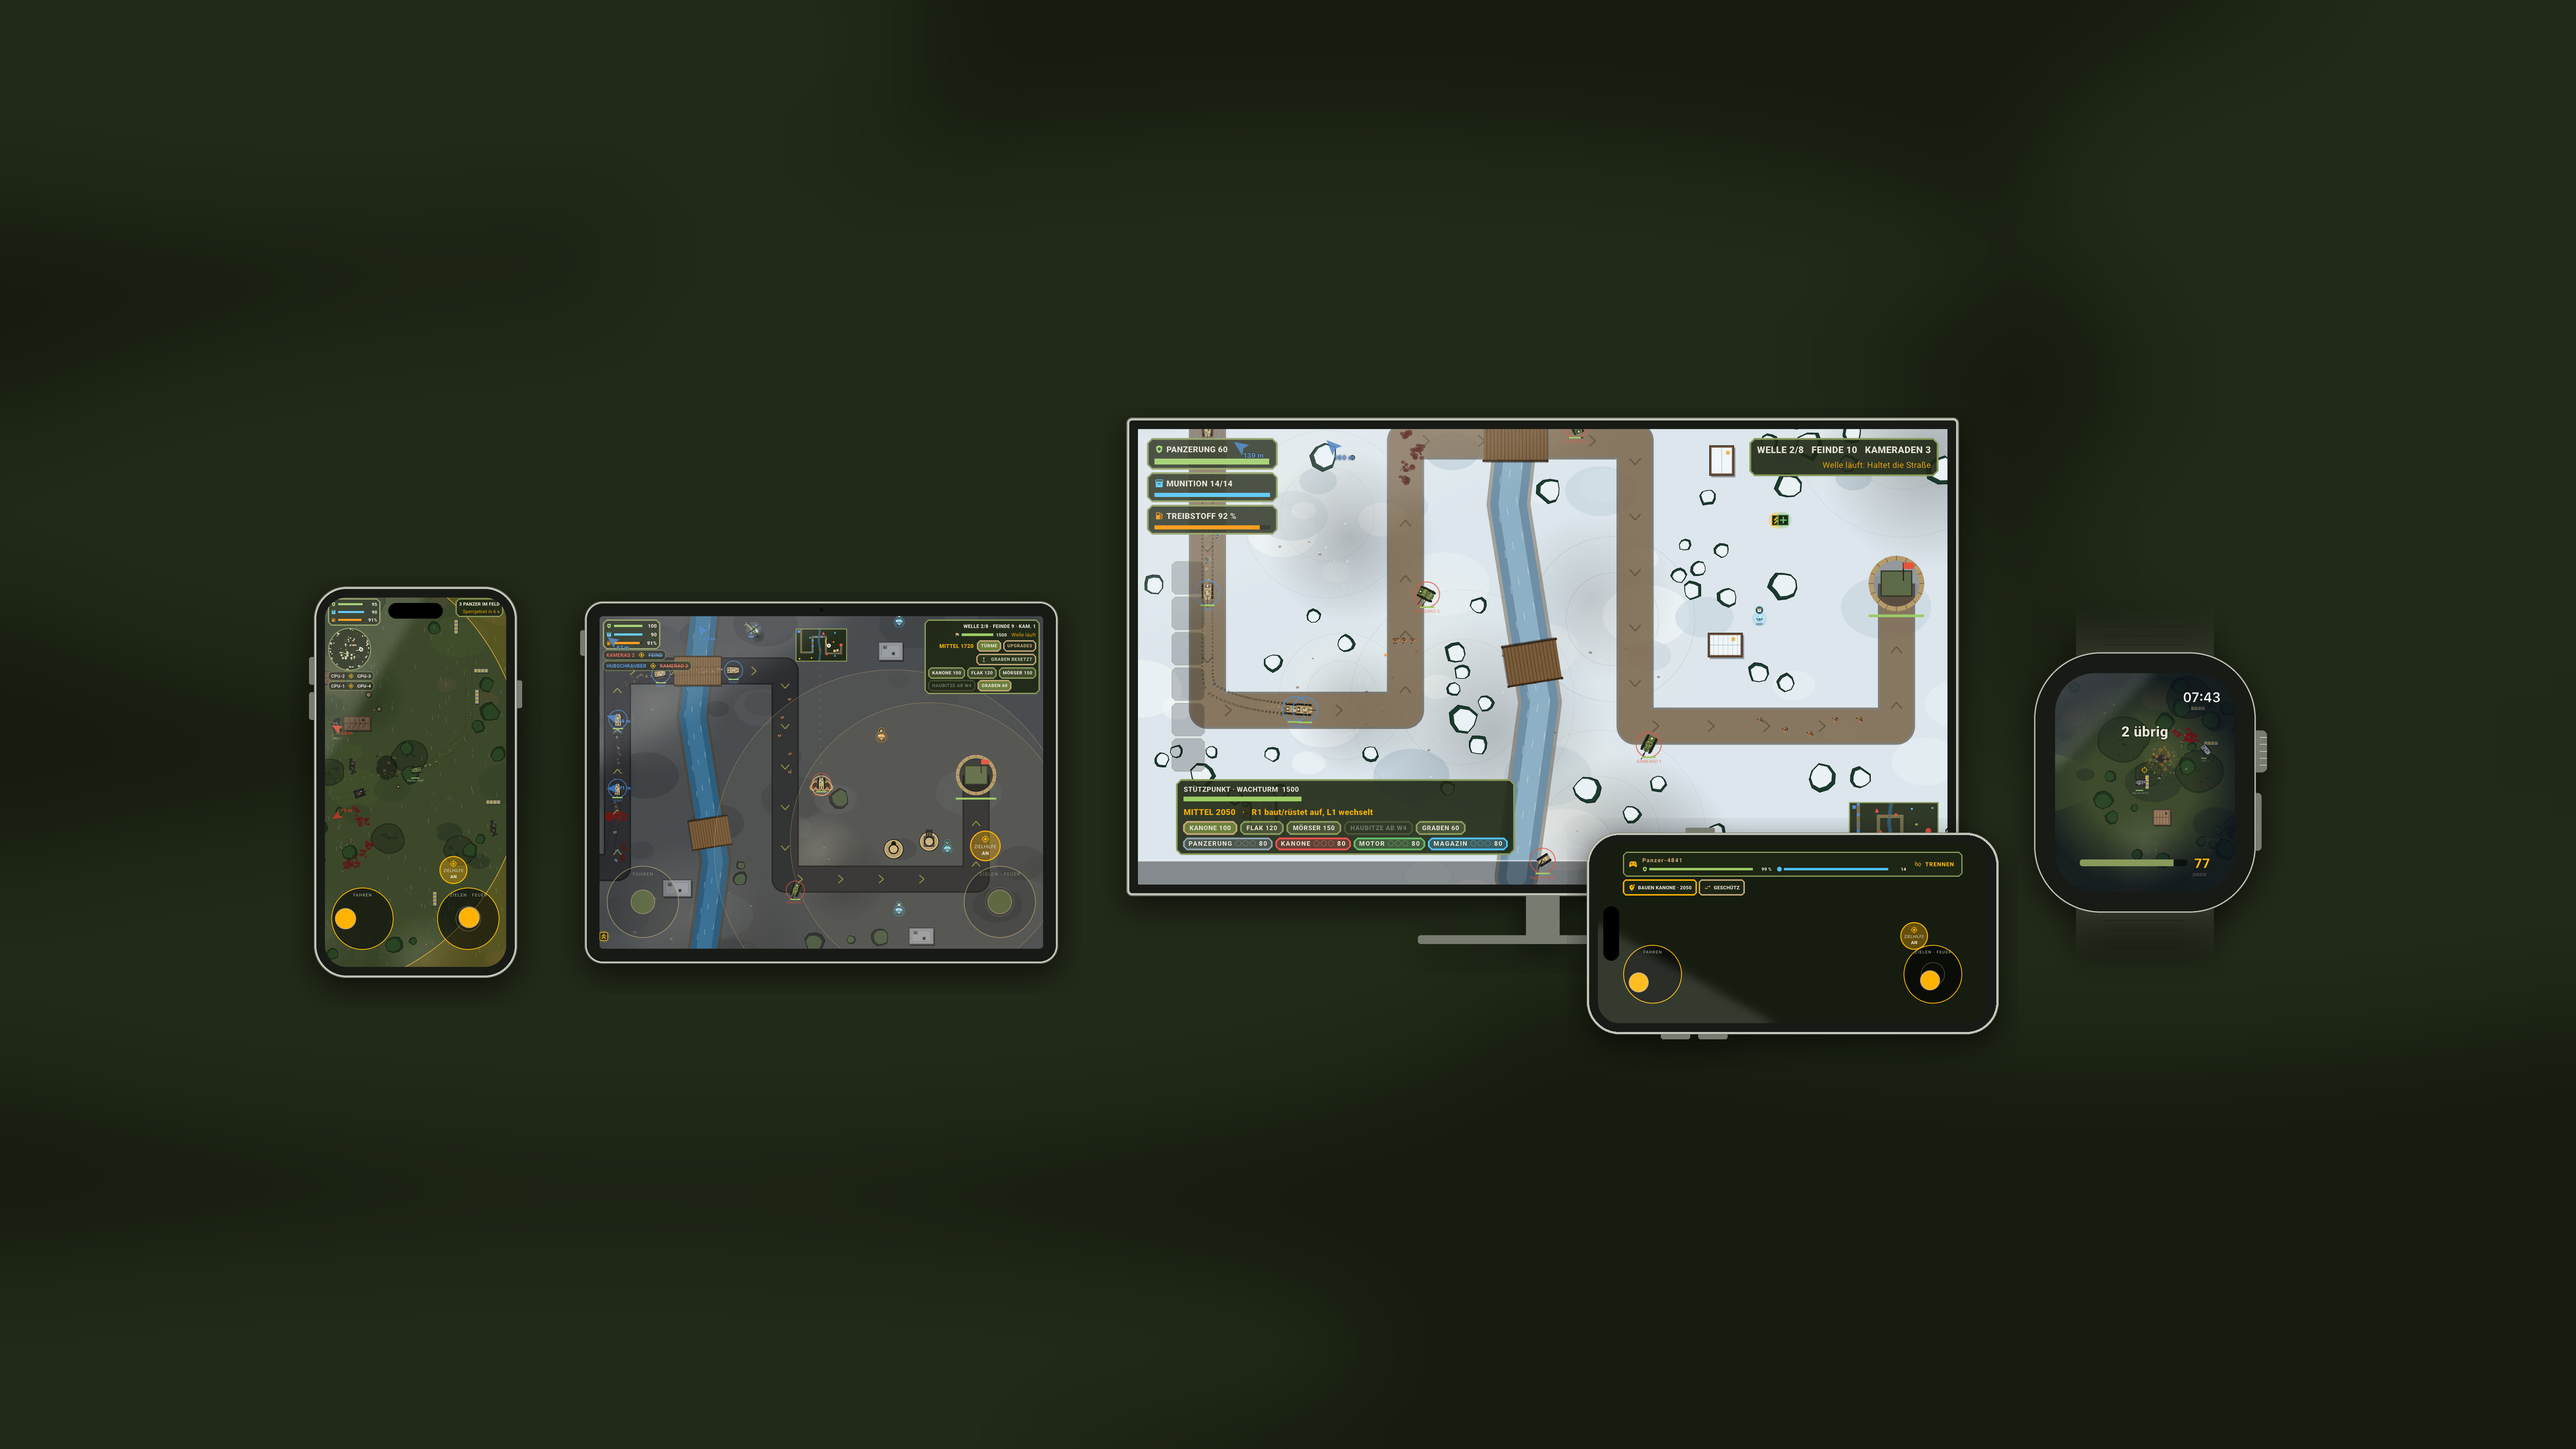
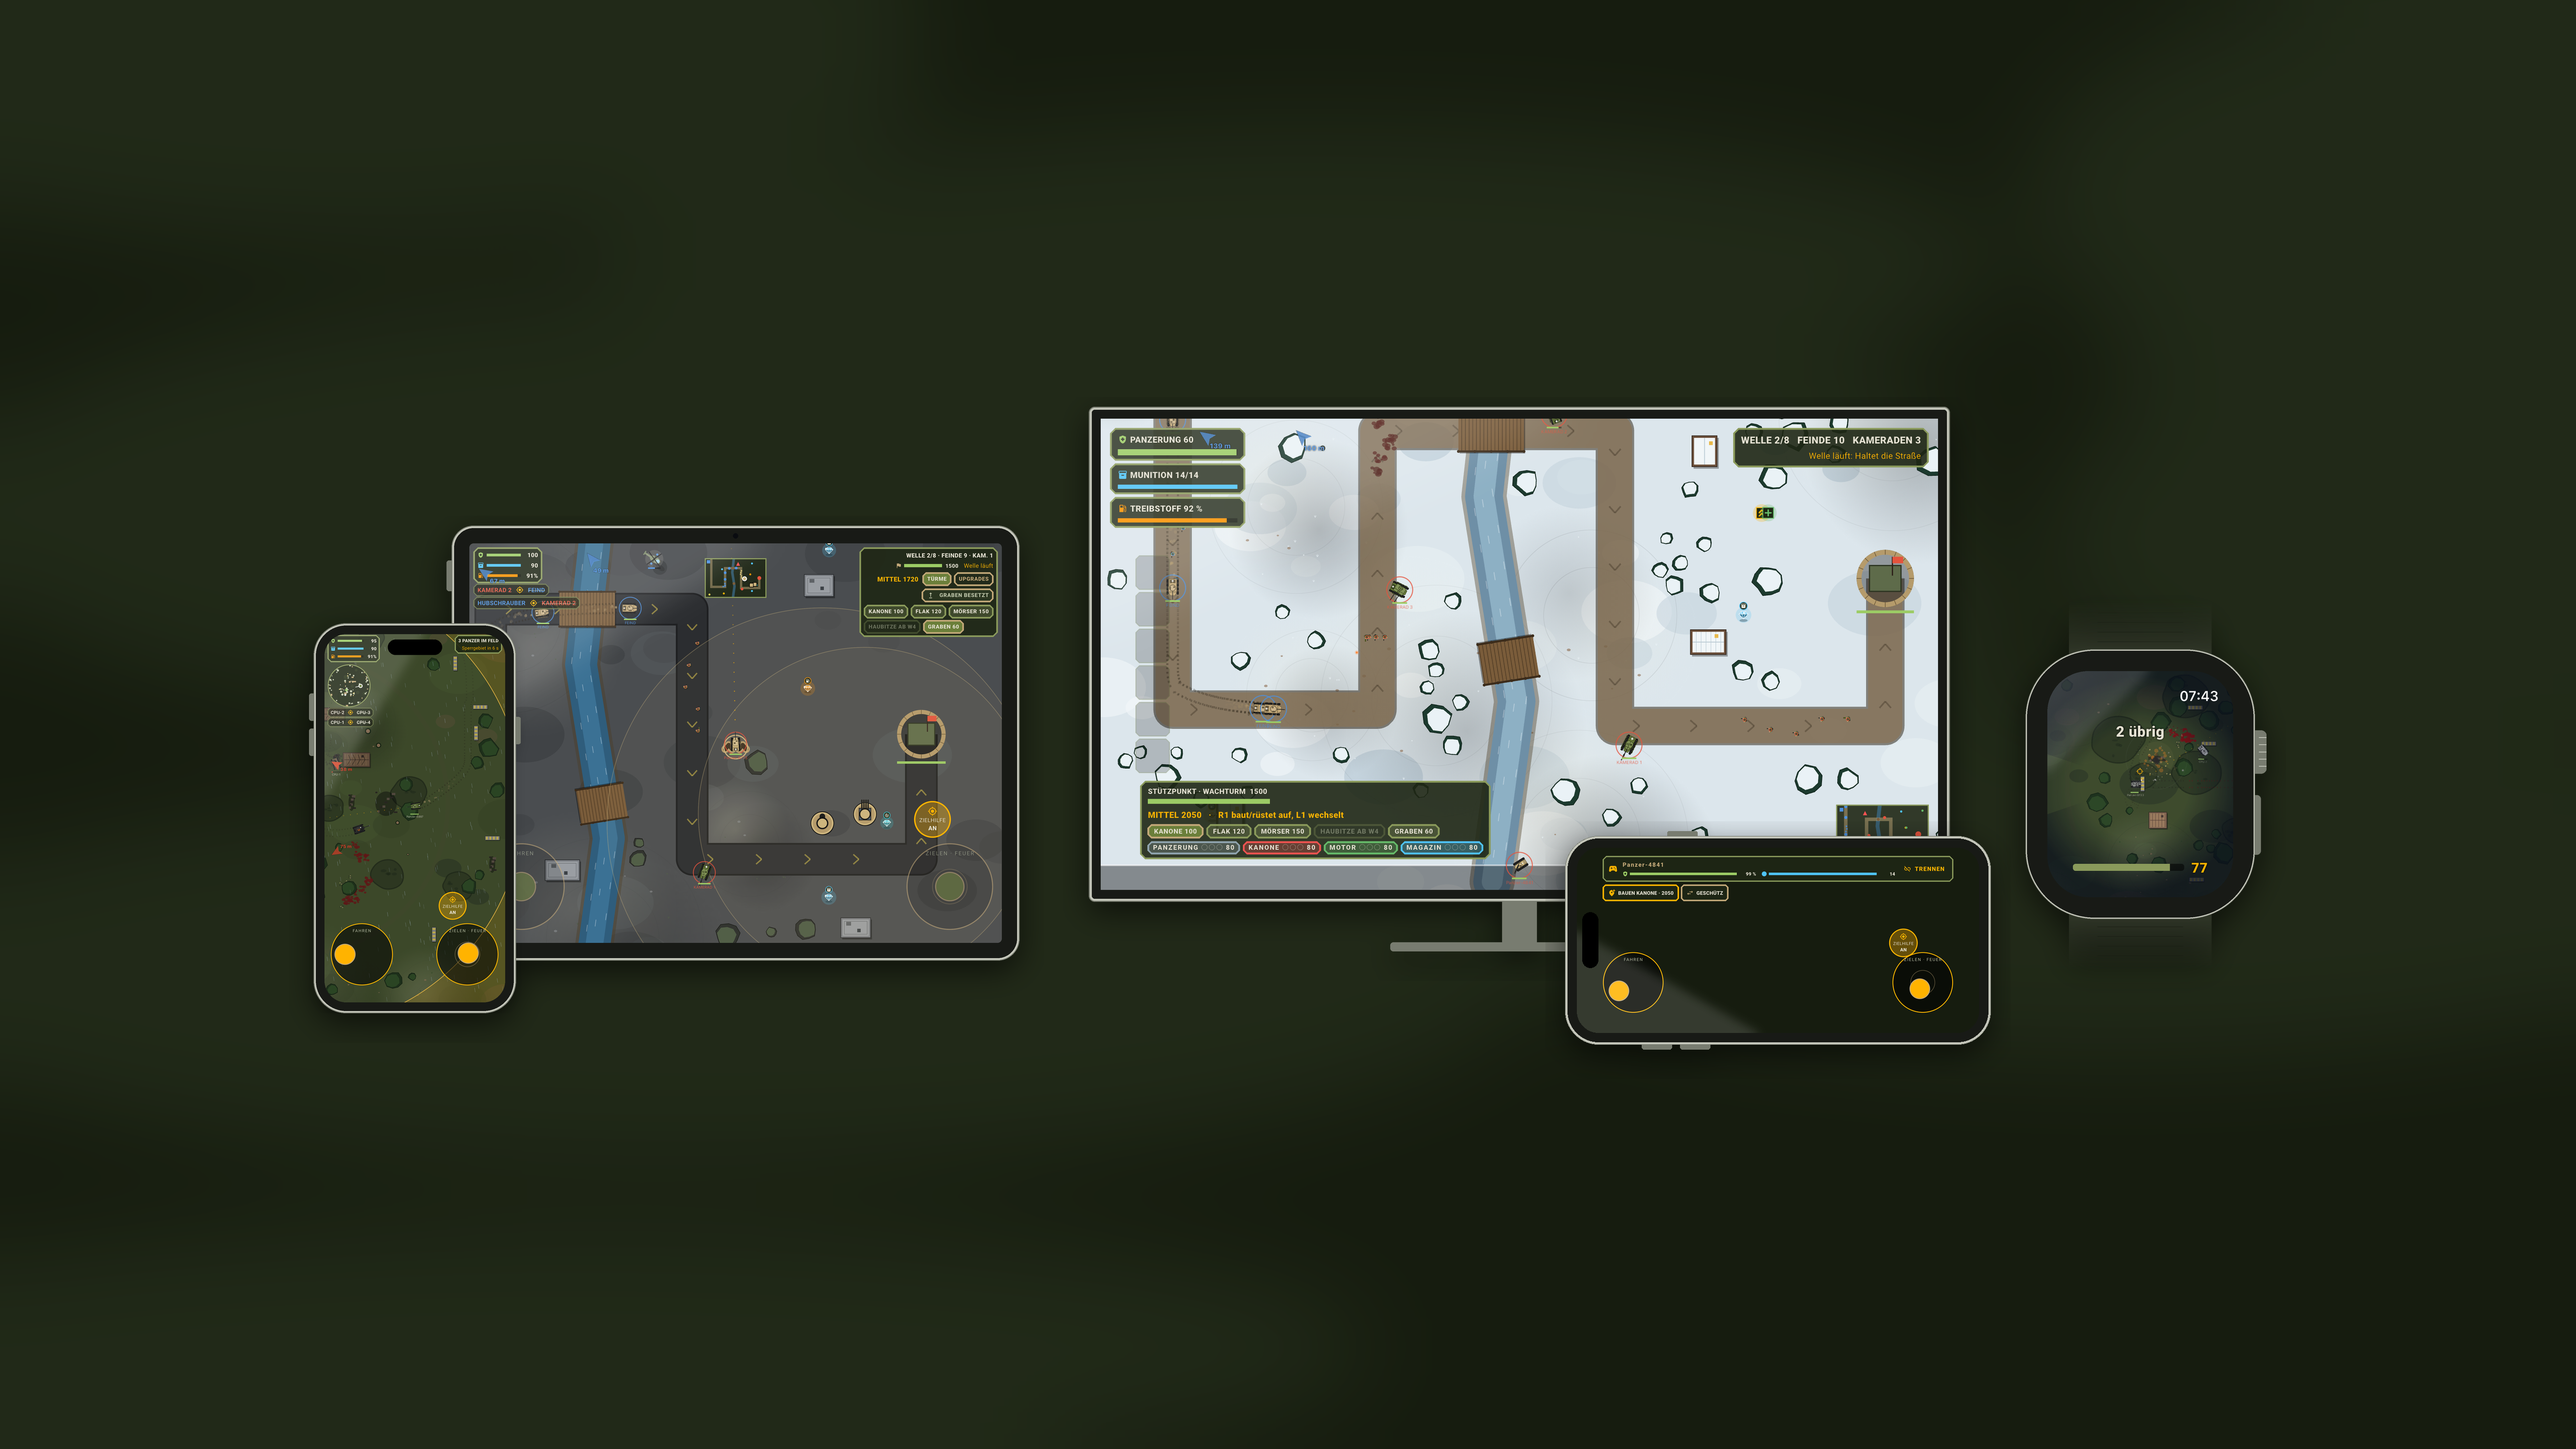
Set the iPhone in front of a larger iPad and the Apple TV on a snow map in the header

Changed region(s): [[0.1243, 0.2807, 0.8703, 0.7173], [0.8082, 0.5925, 0.8703, 0.6549], [0.8082, 0.4366, 0.8392, 0.4678]]

diff --git a/store/tool/compose.py b/store/tool/compose.py
@@ -416,13 +416,25 @@ def header(lang, size, raw_dir):
     watch."""
     w, h = size
     canvas = backdrop(size, f"header-{w}")
+    # The iPad is drawn as one with the iPhone, which stands in front of
+    # its left edge, so the row treats the pair as one piece.
+    iphone = device(load_shot(raw_dir, lang, "i_battle"), round(h * 0.52), "phone")
+    ipad = device(load_shot(raw_dir, lang, "p_defense"), round(h * 0.58), "tablet")
+    overlap = round(iphone.width * 0.35)
+    lift = round(h * 0.13)
+    pair = Image.new("RGBA", (iphone.width + ipad.width - overlap,
+                              max(ipad.height, iphone.height + lift)))
+    pair.alpha_composite(ipad, (iphone.width - overlap, 0))
+    shade = Image.new("RGBA", pair.size)
+    drop_shadow(shade, iphone, 0, lift)
+    pair.alpha_composite(shade)
+    pair.alpha_composite(iphone, (0, lift))
     boxes = row(canvas, [
-        device(load_shot(raw_dir, lang, "i_battle"), round(h * 0.54), "phone"),
-        device(load_shot(raw_dir, lang, "p_defense"), round(h * 0.50), "tablet"),
+        pair,
         device(load_shot(raw_dir, lang, "tv_defense"), round(h * 0.66), "tv"),
         device(load_shot(raw_dir, lang, "w_battle"), round(h * 0.36), "watch"),
-    ], [round(h * 0.08), round(h * 0.08), -round(h * 0.06), round(h * 0.08)])
-    tx, ty, tw, th = boxes[2]
+    ], [round(h * 0.06), -round(h * 0.06), round(h * 0.08)])
+    tx, ty, tw, th = boxes[1]
     phone = landscape_phone(load_shot(raw_dir, lang, "pad"), round(th * 0.36))
     px = tx + tw - phone.width + round(tw * 0.04)
     py = min(ty + th - round(phone.height * 0.55),

diff --git a/store/ios/README.md b/store/ios/README.md
@@ -22,7 +22,7 @@ in App Store Connect einfügen.
 | iPhone 6,3" (1206 × 2622), Pflichtfeld „iPhone mit Dynamic Island“ | `screenshots/<sprache>/iphone63-*.png` |
 | iPad 13" (2752 × 2064) | `screenshots/<sprache>/ipad-*.png` |
 | Apple Watch Ultra 4 (422 × 514), von Hand hochladen | `watch/<sprache>/watch-*.png` |
-| Kopfzeile, Tab „Kopfzeile“ (5244 × 2950 und 3840 × 1646), von Hand hochladen | `header/<sprache>/header-*.png`: iPhone, iPad, Apple TV mit Handy als Controller davor, Watch |
+| Kopfzeile, Tab „Kopfzeile“ (5244 × 2950 und 3840 × 1646), von Hand hochladen | `header/<sprache>/header-*.png`: iPhone vor dem iPad, Apple TV mit Handy als Controller davor, Watch |
 | Kopfzeile, Tab „Suchergebnisse“ (dieselben Größen), von Hand hochladen | `header/<sprache>/search-*.png`: iPhone, iPad und Watch nebeneinander |
 
 `<sprache>` ist `de-DE` oder `en-US`. Watch-Bilder und Kopfzeile liegen
